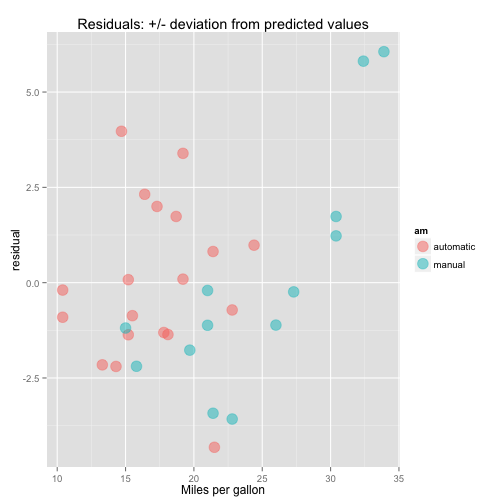
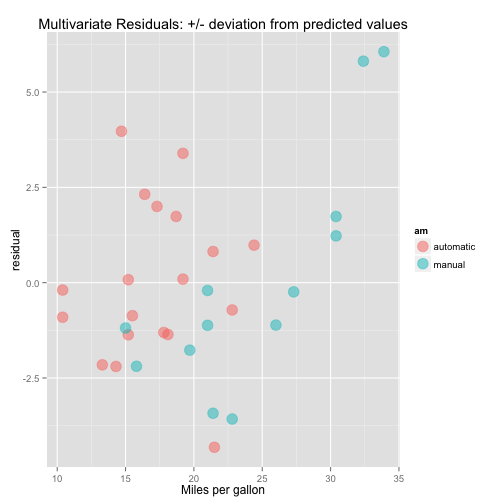
added short version of the analysis for eval

Changed region(s): [[0.0595, 0.0298, 0.8036, 0.0595]]

diff --git a/mtcars_mpg_rm.md b/mtcars_mpg_rm.md
@@ -17,7 +17,7 @@ In this analysis, relationship between various automobile characteristics and fu
 ## Data
 
 The data set is described at [Motor Trend Car Road Tests](https://stat.ethz.ch/R-manual/R-devel/library/datasets/html/mtcars.html) and consists of 
-data was extracted from the 1974 Motor Trend US magazine. 
+data extracted from the 1974 Motor Trend US magazine. 
 
 
 ```r
@@ -81,7 +81,7 @@ has a significant correlation with fuel efficiency.
   aWeight <- mean(mtcars[mtcars$am == "automatic", ]$wt*1000)
 ```
 
-The data indicates the same as, on average, manual transmission vehicles are
+Simply looking at the averages, manual transmission vehicles are
 **7mpg** more efficient than automatic
 transmission vehicles.
 
@@ -210,6 +210,6 @@ For every 1000lb increase in vehicle weight, we expect an estimated
 Factoring out the influence of weight, there isn't a statistically
 significant benefit of manual vs. automatic transmissions.
 In the sample data, the estimated benefit is just
-**0.01mpg**
+**0.13mpg**
 
 
